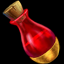
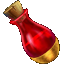
Inventory Fields can store items

diff --git a/Client/core/src/pl/mmorpg/prototype/client/states/dialogs/InventoryDialog.java b/Client/core/src/pl/mmorpg/prototype/client/states/dialogs/InventoryDialog.java
@@ -5,11 +5,12 @@ import java.util.HashMap;
 import java.util.Map;
 
 import com.badlogic.gdx.scenes.scene2d.InputEvent;
-import com.badlogic.gdx.scenes.scene2d.ui.Button;
 import com.badlogic.gdx.scenes.scene2d.ui.HorizontalGroup;
 import com.badlogic.gdx.scenes.scene2d.ui.VerticalGroup;
 import com.badlogic.gdx.scenes.scene2d.utils.ClickListener;
 
+import pl.mmorpg.prototype.client.exceptions.NoSuchInventoryFieldInPosition;
+import pl.mmorpg.prototype.client.items.Item;
 import pl.mmorpg.prototype.client.states.PlayState;
 import pl.mmorpg.prototype.client.states.dialogs.components.InventoryField;
 
@@ -17,7 +18,7 @@ public class InventoryDialog extends CustomDialog
 {
 	private PlayState linkedState;
 
-	private Map<Point, Button> inventoryCells = new HashMap<>();
+	private Map<Point, InventoryField> inventoryFields = new HashMap<>();
 
 	public InventoryDialog(PlayState linkedState)
 	{
@@ -30,8 +31,8 @@ public class InventoryDialog extends CustomDialog
 			for (int j = 0; j < 5; j++)
 			{
 				Point cellPosition = new Point(i, j);
-				Button button = createButton(cellPosition);
-				inventoryCells.put(cellPosition, button);
+				InventoryField button = createButton(cellPosition);
+				inventoryFields.put(cellPosition, button);
 				g.addActor(button);
 			}
 			v.addActor(g);
@@ -41,7 +42,7 @@ public class InventoryDialog extends CustomDialog
 		row();
 	}
 
-	private Button createButton(Point cellPosition)
+	private InventoryField createButton(Point cellPosition)
 	{
 		InventoryField button = new InventoryField();
 		button.addListener(new ClickListener()
@@ -65,6 +66,20 @@ public class InventoryDialog extends CustomDialog
 	public void buttonClicked(Point cellPosition)
 	{
 		System.out.println(cellPosition);
+	}
+
+	public void put(Item item, Point position)
+	{
+		InventoryField field = inventoryFields.get(position);
+		if (field == null)
+			throw new NoSuchInventoryFieldInPosition(position);
+		field.put(item);
+	}
+
+	public Item getItem(Point position)
+	{
+		InventoryField field = inventoryFields.get(position);
+		return field.getItem();
 	}
 
 }

diff --git a/Client/core/src/pl/mmorpg/prototype/client/states/PlayState.java b/Client/core/src/pl/mmorpg/prototype/client/states/PlayState.java
@@ -1,5 +1,6 @@
 package pl.mmorpg.prototype.client.states;
 
+import java.awt.Point;
 import java.util.LinkedList;
 import java.util.List;
 import java.util.Map;
@@ -15,11 +16,12 @@ import com.esotericsoftware.kryonet.Client;
 
 import pl.mmorpg.prototype.client.exceptions.NotImplementedException;
 import pl.mmorpg.prototype.client.input.DialogManipulator;
-import pl.mmorpg.prototype.client.input.InputProcessorAdapter;
 import pl.mmorpg.prototype.client.input.InputMultiplexer;
+import pl.mmorpg.prototype.client.input.InputProcessorAdapter;
 import pl.mmorpg.prototype.client.input.NullInputHandler;
 import pl.mmorpg.prototype.client.input.PlayInputContinuousHandler;
 import pl.mmorpg.prototype.client.input.PlayInputSingleHandle;
+import pl.mmorpg.prototype.client.items.SmallHealthPotion;
 import pl.mmorpg.prototype.client.objects.GameObject;
 import pl.mmorpg.prototype.client.objects.Player;
 import pl.mmorpg.prototype.client.resources.Assets;
@@ -54,6 +56,7 @@ public class PlayState implements State, GameObjectsContainer
 		this.states = states;
 		inputMultiplexer = new InputMultiplexer();
 		lastActiveDialog = inventoryDialog;
+		inventoryDialog.put(new SmallHealthPotion(), new Point(0, 0));
 	}
 
 	public void initialize(UserCharacterDataPacket character)

diff --git a/Client/core/src/pl/mmorpg/prototype/client/items/SmallHealthPotion.java b/Client/core/src/pl/mmorpg/prototype/client/items/SmallHealthPotion.java
@@ -6,18 +6,16 @@ import pl.mmorpg.prototype.client.resources.Assets;
 
 public class SmallHealthPotion extends Potion
 {
-	private GameCharacter character;
-
-	public SmallHealthPotion(GameCharacter character)
+	public SmallHealthPotion()
 	{
-		super(Assets.get(Assets.Textures.Items.SMALL_HEALTH_POTION), character);
-		this.character = character;
+		super(Assets.get(Assets.Textures.Items.SMALL_HEALTH_POTION));
 	}
 
 	@Override
-	public void use()
+	public void use(GameCharacter character)
 	{
 		throw new NotImplementedException();
 	}
+
 
 }

diff --git a/Client/core/src/pl/mmorpg/prototype/client/states/dialogs/components/InventoryField.java b/Client/core/src/pl/mmorpg/prototype/client/states/dialogs/components/InventoryField.java
@@ -24,8 +24,8 @@ public class InventoryField extends Button implements ItemContainer
 		drawable = new SpriteDrawable(sprite);
 		image = new Image(drawable);
 		add(image);
-		drawable.setMinWidth(20);
-		drawable.setMinHeight(20);
+		drawable.setMinWidth(24);
+		drawable.setMinHeight(24);
 	}
 
 	@Override
@@ -62,7 +62,5 @@ public class InventoryField extends Button implements ItemContainer
 	public void setTexture(Texture texture)
 	{
 		sprite.setTexture(texture);
-		setWidth(texture.getWidth());
-		setHeight(texture.getHeight());
 	}
 }

diff --git a/Client/core/src/pl/mmorpg/prototype/client/items/Potion.java b/Client/core/src/pl/mmorpg/prototype/client/items/Potion.java
@@ -2,11 +2,9 @@ package pl.mmorpg.prototype.client.items;
 
 import com.badlogic.gdx.graphics.Texture;
 
-import pl.mmorpg.prototype.client.objects.GameCharacter;
-
-public abstract class Potion extends Item implements Useable
+public abstract class Potion extends Item implements ItemUseable
 {
-	public Potion(Texture texture, GameCharacter character)
+	public Potion(Texture texture)
 	{
 		super(texture);
 	}

diff --git a/Client/core/src/pl/mmorpg/prototype/client/resources/Assets.java b/Client/core/src/pl/mmorpg/prototype/client/resources/Assets.java
@@ -192,7 +192,7 @@ public class Assets
 		public static class Items
 		{
 			public static final String ITEM_FOLDER = "Items/";
-			public static final String SMALL_HEALTH_POTION = ITEM_FOLDER + "SmallManaPotion.png";
+			public static final String SMALL_HEALTH_POTION = ITEM_FOLDER + "SmallHealthPotion.png";
 		}
 	}
 }

diff --git a/Client/core/src/pl/mmorpg/prototype/client/exceptions/NoSuchInventoryFieldInPosition.java b/Client/core/src/pl/mmorpg/prototype/client/exceptions/NoSuchInventoryFieldInPosition.java
@@ -1,0 +1,13 @@
+package pl.mmorpg.prototype.client.exceptions;
+
+import java.awt.Point;
+
+public class NoSuchInventoryFieldInPosition extends GameException
+{
+
+	public NoSuchInventoryFieldInPosition(Point position)
+	{
+		super(position.toString());
+	}
+
+}

diff --git a/Client/core/src/pl/mmorpg/prototype/client/items/ItemUseable.java b/Client/core/src/pl/mmorpg/prototype/client/items/ItemUseable.java
@@ -1,0 +1,9 @@
+package pl.mmorpg.prototype.client.items;
+
+import pl.mmorpg.prototype.client.objects.GameCharacter;
+
+@FunctionalInterface
+public interface ItemUseable
+{
+	void use(GameCharacter character);
+}
